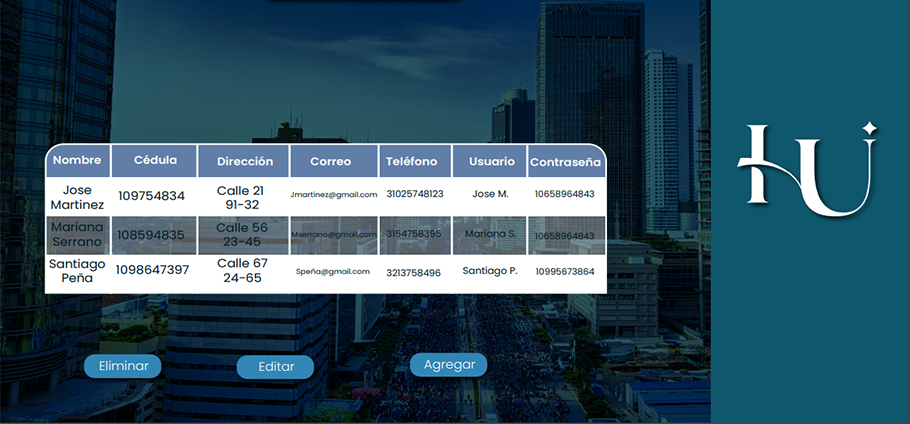
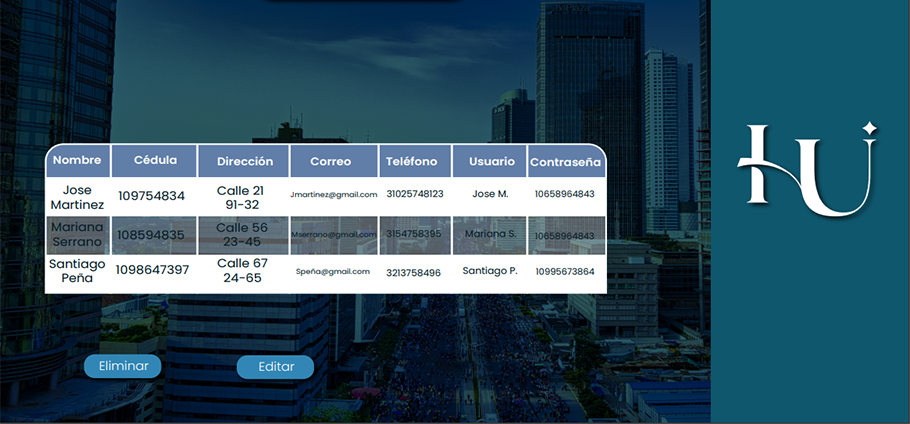
quitar boton agregar

Changed region(s): [[0.4308, 0.8278, 0.5538, 0.9198]]

diff --git a/Horizontes_Urbanos/src/main/java/VISTA/admin/administrarAsesor.java b/Horizontes_Urbanos/src/main/java/VISTA/admin/administrarAsesor.java
@@ -53,7 +53,6 @@ public class administrarAsesor extends javax.swing.JFrame {
         jScrollPane1 = new javax.swing.JScrollPane();
         tablaMostrarAsesor = new javax.swing.JTable();
         btnEliminarAsesor = new javax.swing.JButton();
-        btnAgregarCorreoYTelefono = new javax.swing.JButton();
         btnEditarAsesor = new javax.swing.JButton();
         jLabel2 = new javax.swing.JLabel();
 
@@ -157,17 +156,6 @@ public class administrarAsesor extends javax.swing.JFrame {
         });
         jPanel2.add(btnEliminarAsesor, new org.netbeans.lib.awtextra.AbsoluteConstraints(60, 350, 110, 40));
 
-        btnAgregarCorreoYTelefono.setBackground(new java.awt.Color(49, 134, 181));
-        btnAgregarCorreoYTelefono.setFont(new java.awt.Font("Segoe UI Black", 0, 12)); // NOI18N
-        btnAgregarCorreoYTelefono.setForeground(new java.awt.Color(255, 255, 255));
-        btnAgregarCorreoYTelefono.setText("Agregar");
-        btnAgregarCorreoYTelefono.addActionListener(new java.awt.event.ActionListener() {
-            public void actionPerformed(java.awt.event.ActionEvent evt) {
-                btnAgregarCorreoYTelefonoActionPerformed(evt);
-            }
-        });
-        jPanel2.add(btnAgregarCorreoYTelefono, new org.netbeans.lib.awtextra.AbsoluteConstraints(400, 350, 110, 40));
-
         btnEditarAsesor.setBackground(new java.awt.Color(49, 134, 181));
         btnEditarAsesor.setFont(new java.awt.Font("Segoe UI Black", 0, 12)); // NOI18N
         btnEditarAsesor.setForeground(new java.awt.Color(255, 255, 255));
@@ -267,13 +255,6 @@ public class administrarAsesor extends javax.swing.JFrame {
         btnEliminarAsesor.setEnabled(true);
     }//GEN-LAST:event_btnEliminarAsesorActionPerformed
 
-    private void btnAgregarCorreoYTelefonoActionPerformed(java.awt.event.ActionEvent evt) {//GEN-FIRST:event_btnAgregarCorreoYTelefonoActionPerformed
-
-        btnEliminarAsesor.setEnabled(false);
-
-        btnEliminarAsesor.setEnabled(true);
-    }//GEN-LAST:event_btnAgregarCorreoYTelefonoActionPerformed
-
     private void btnEditarAsesorActionPerformed(java.awt.event.ActionEvent evt) {//GEN-FIRST:event_btnEditarAsesorActionPerformed
         // TODO add your handling code here:
     }//GEN-LAST:event_btnEditarAsesorActionPerformed
@@ -299,7 +280,6 @@ public class administrarAsesor extends javax.swing.JFrame {
 
 
     // Variables declaration - do not modify//GEN-BEGIN:variables
-    private javax.swing.JButton btnAgregarCorreoYTelefono;
     private javax.swing.JButton btnEditarAsesor;
     private javax.swing.JButton btnEliminarAsesor;
     private javax.swing.JButton btnMenu;
